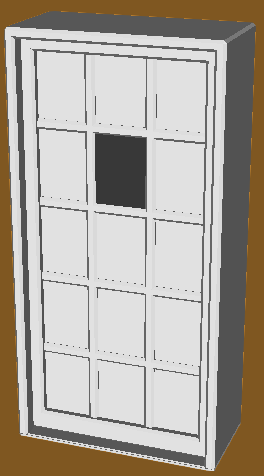
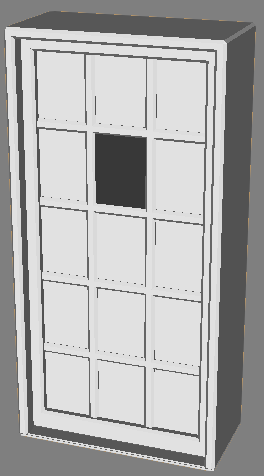
Change background color

Changed region(s): [[0.0, 0.0, 1.0, 1.0]]

diff --git a/examplee/look.h b/examplee/look.h
@@ -7,8 +7,7 @@
 
 #include "paint_can.h"
 
-//#define BACKGROUND_COLOR PaintCan(1.0, 0.682, 0.259)
-#define BACKGROUND_COLOR PaintCan(1.0 / 2.0, 0.682 / 2.0, 0.259 / 2.0)
+#define BACKGROUND_COLOR PaintCan(0.5, 0.5, 0.5)
 
 
 #define MARKER_COLOR PaintCan(0.0, 1.0, 0.0)
